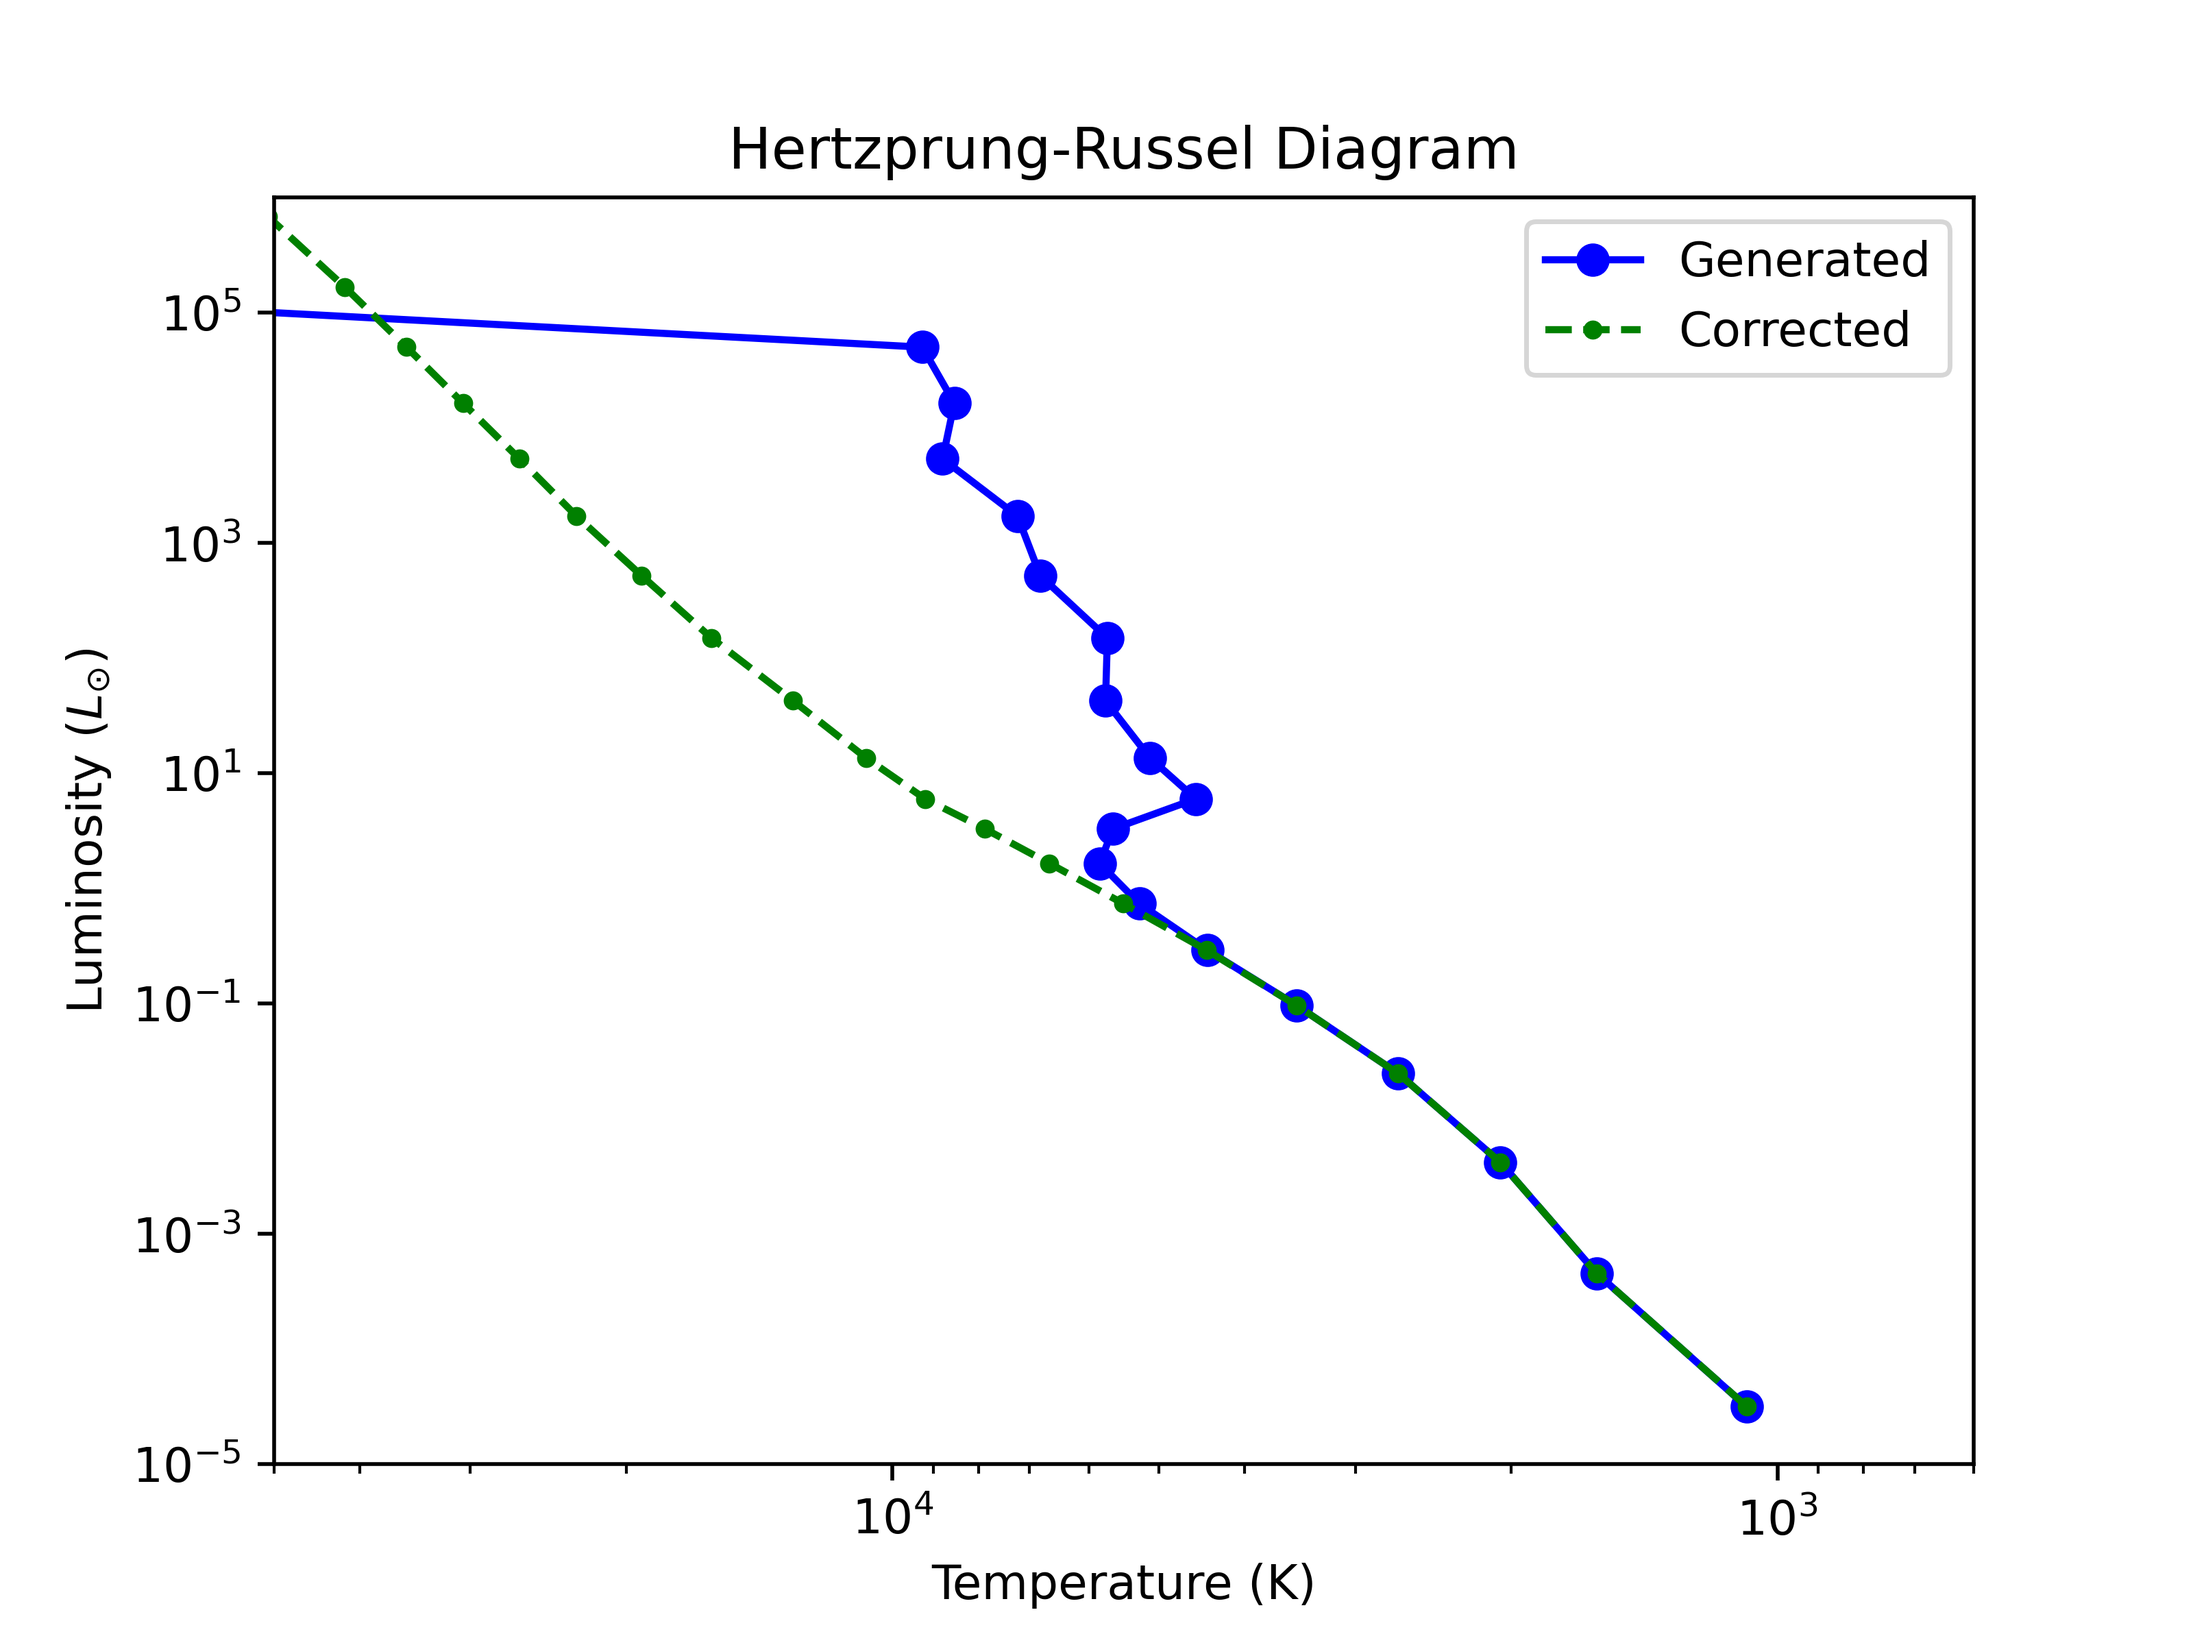
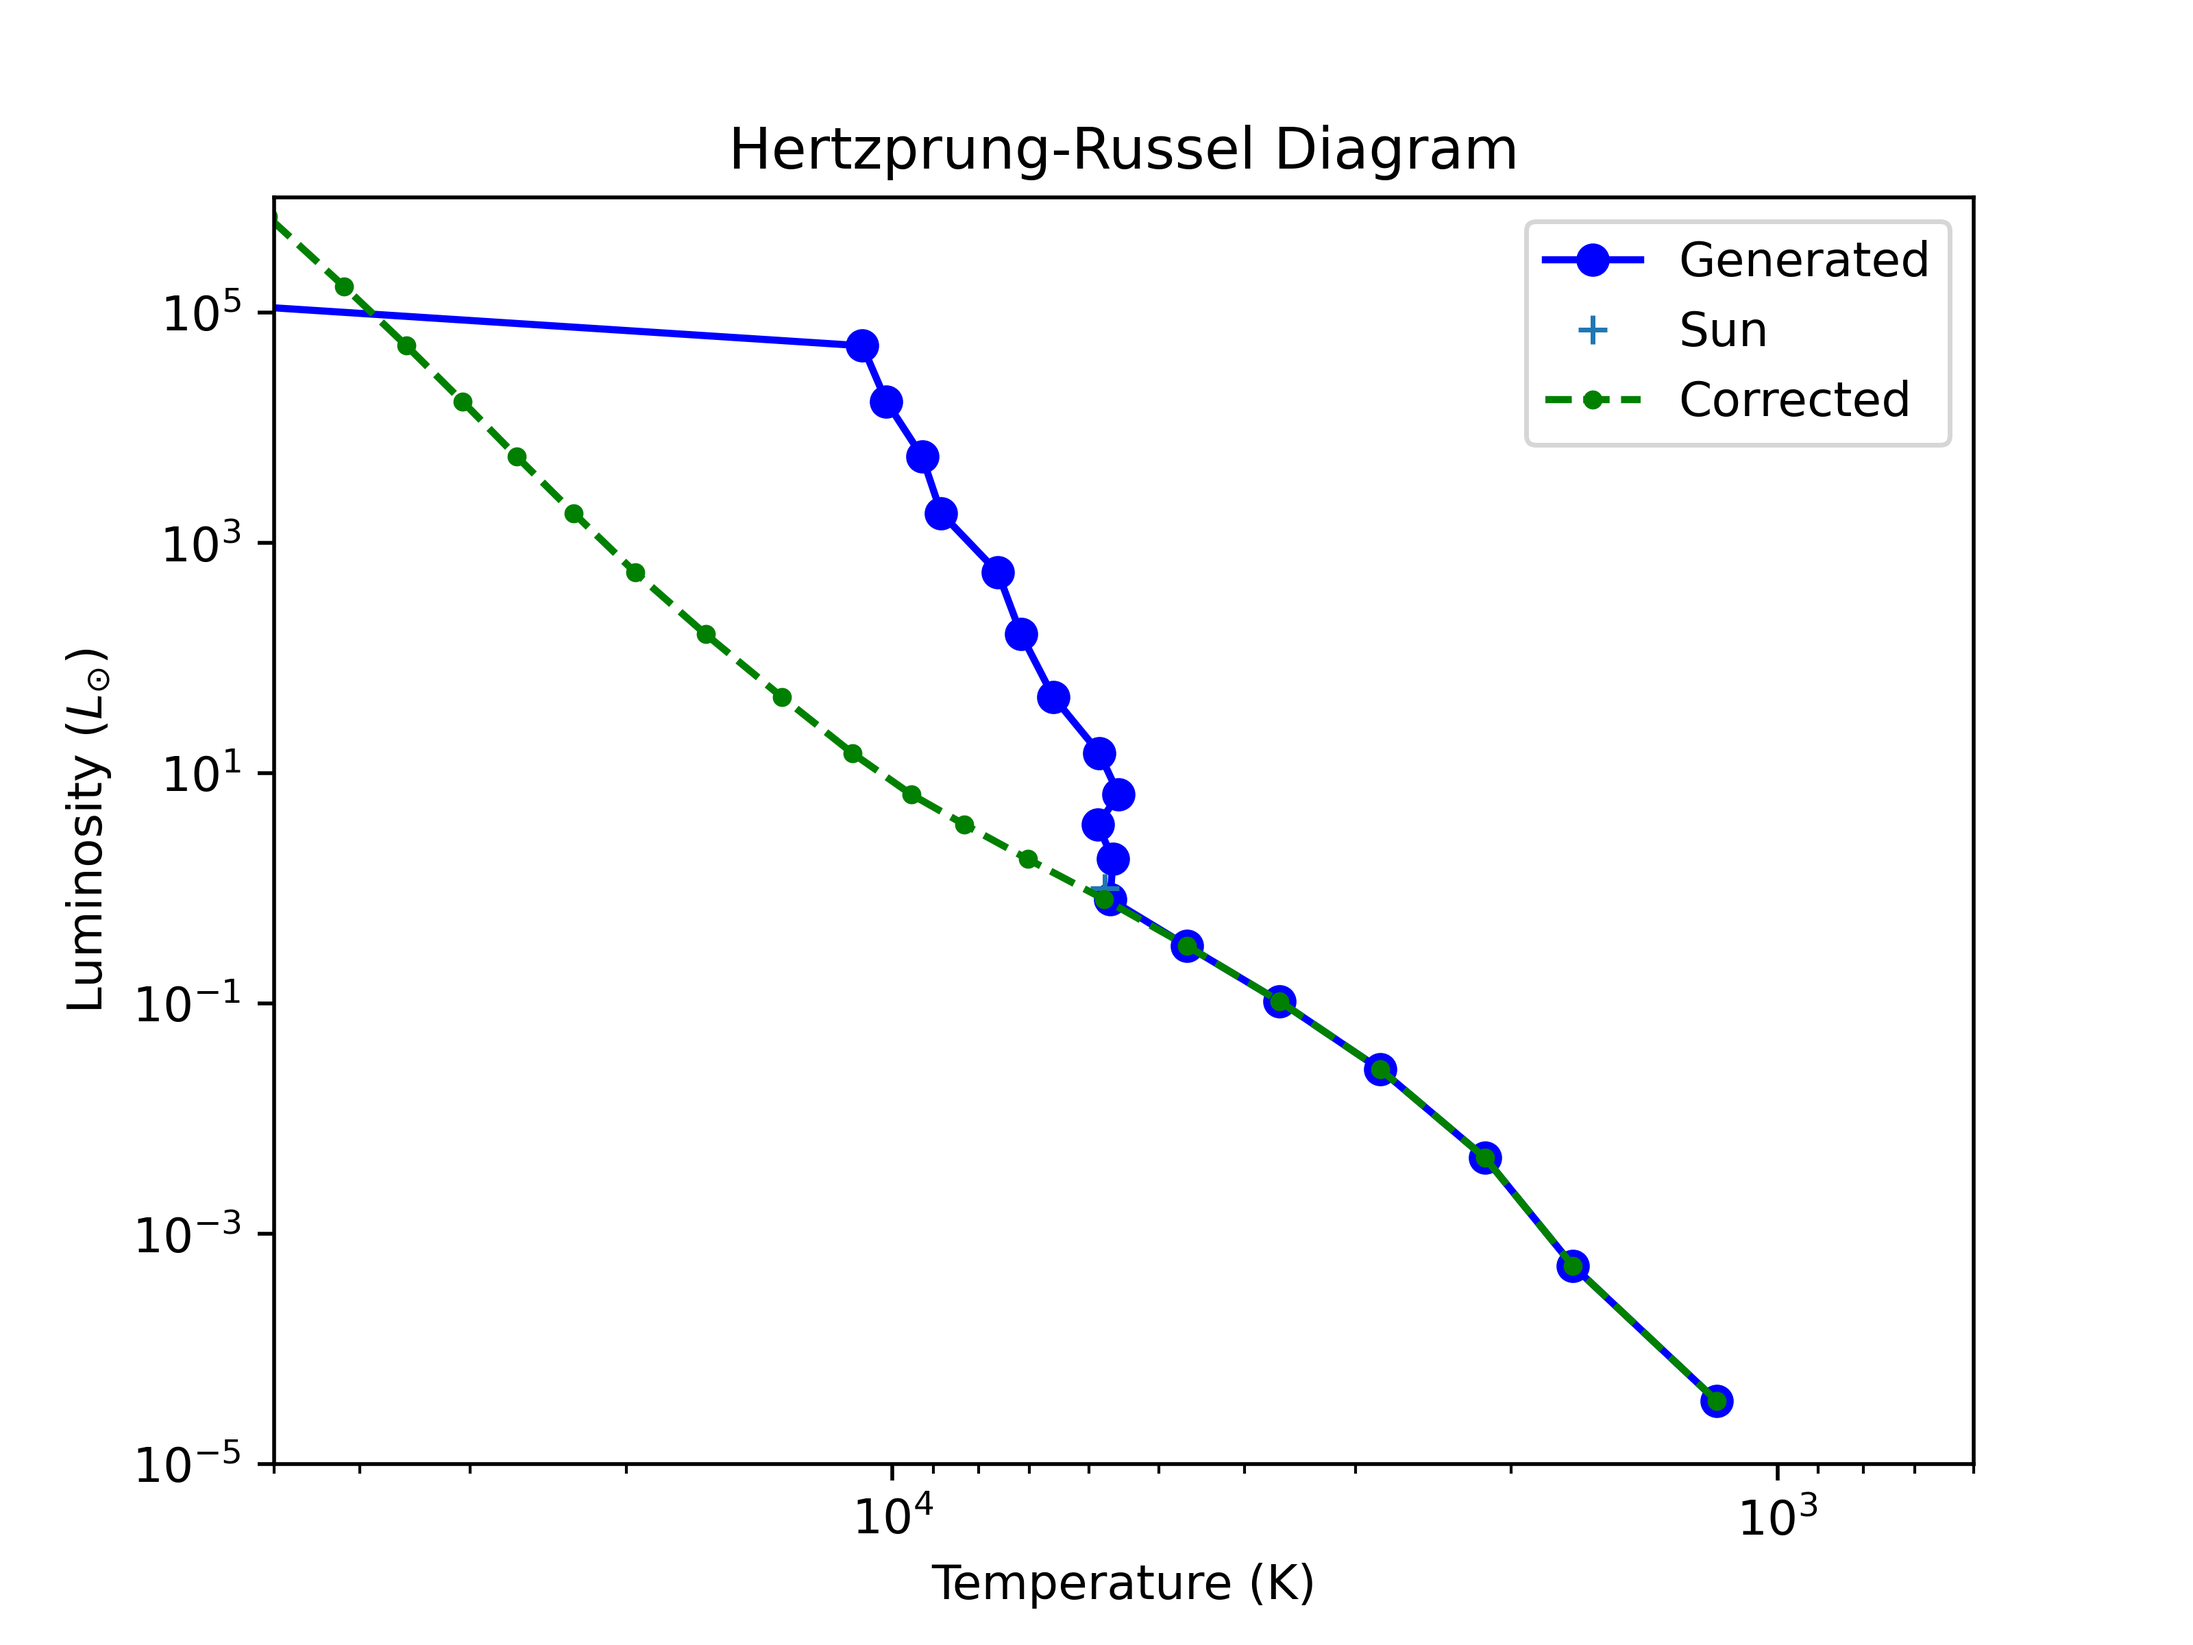
Adding everything to github

diff --git a/main.py b/main.py
@@ -51,12 +51,12 @@ def P(rho, T):
 # the big 5 =================================
 # theyre kinda hard to read, keep the doc side by side
 @jit
-def drhodr( rho, T, L, r, M, P):
-    return -(G*M*rho/r**2 + dPdT( rho, T) * dTdr(rho, T, L, r, M, P)) /dPdrho(rho,T)
+def drhodr( rho, T, L, r, M, P, kappas):
+    return -(G*M*rho/r**2 + dPdT( rho, T) * dTdr(rho, T, L, r, M, P, kappas)) /dPdrho(rho,T)
 
 @jit
-def dTdr(  rho, T, L, r, M, P):
-    return - np.nanmin([ np.abs(3 * kappa(rho,T) * rho * L/(16*np.pi*a*c*(T**3)*(r**2))), np.abs((1 - 1/gamma)*(T/P)*G*M*rho/r**2)], axis=0 )
+def dTdr(  rho, T, L, r, M, P, kappas):
+    return - np.nanmin([ np.abs(3 * kappas * rho * L/(16*np.pi*a*c*(T**3)*(r**2))), np.abs((1 - 1/gamma)*(T/P)*G*M*rho/r**2)], axis=0 )
 
 @jit
 def dMdr(r, rho):
@@ -187,8 +187,8 @@ def star_modified(r,y):
     L = y[3]
     tau = y[4]
 
-    rhodot = drhodr(rho, T, L, r, M, P(rho, T))
-    Tdot = dTdr(rho, T, L, r, M, P(rho, T))
+    rhodot = drhodr(rho, T, L, r, M, P(rho, T), kappa_modified(rho, T))
+    Tdot = dTdr(rho, T, L, r, M, P(rho, T), kappa_modified(rho, T))
     Mdot = dMdr(r, rho)
     Ldot = dLdr(rho, r, T)
     taudot = dtaudr(rho, kappa_modified(rho, T))
@@ -209,8 +209,8 @@ def star(r,y):
     L = y[3]
     tau = y[4]
 
-    rhodot = drhodr(rho, T, L, r, M, P(rho, T))
-    Tdot = dTdr(rho, T, L, r, M, P(rho, T))
+    rhodot = drhodr(rho, T, L, r, M, P(rho, T), kappa(rho, T))
+    Tdot = dTdr(rho, T, L, r, M, P(rho, T), kappa(rho, T))
     Mdot = dMdr(r, rho)
     Ldot = dLdr(rho, r, T)
     taudot = dtaudr(rho, kappa(rho, T))
@@ -233,7 +233,7 @@ def dtausmall(all, rs1, modified=False, ret=False):
     else:
         ks = kappa_modified(rhos1, Ts1)
 
-    drhodrs = drhodr(rhos1,Ts1, Ls1, rs1, Ms1, P(rhos1, Ts1))
+    drhodrs = drhodr(rhos1,Ts1, Ls1, rs1, Ms1, P(rhos1, Ts1), ks)
     dtau1 = ks * rhos1 * rhos1 / np.abs(drhodrs)
 
     if ret:
@@ -410,7 +410,7 @@ def trial_soln(rho_c_trial, T_c, r_f, system=star, optimize=True, final=False, m
         ks = kappa(rhos1[tauinf_i], Ts1[tauinf_i])
     else:
         ks = kappa_modified(rhos1[tauinf_i], Ts1[tauinf_i])
-    drhodrs = drhodr(rhos1[tauinf_i], Ts1[tauinf_i], Ls1[tauinf_i], rs1[tauinf_i], Ms1[tauinf_i], P(rhos1[tauinf_i], Ts1[tauinf_i]))
+    drhodrs = drhodr(rhos1[tauinf_i], Ts1[tauinf_i], Ls1[tauinf_i], rs1[tauinf_i], Ms1[tauinf_i], P(rhos1[tauinf_i], Ts1[tauinf_i]), ks)
     dtau1 =  ks * rhos1[tauinf_i] * rhos1[tauinf_i] / np.abs(drhodrs)
 
     print("1: R: {}  T: {}  tauerr: {} f: {}".format(rs1[surf_g1] / Rsun, Ts1[surf_g1], surf_err1, frac_error1))
@@ -509,16 +509,16 @@ def find_ics(rho_c_min, rho_c_max, Tc, rf, max_iters, system=star, modified=Fals
             elif ((np.min(np.abs(fs)) < 0.5) or (np.abs(fs[-1]) < 0.5) ) and n > 100:
                 print("f is smaller than threshold for 100 iters")
                 break
-            elif len(fs) > 5 and np.min(np.abs(fs[-1] - np.array(fs[-3:]))) < 1e-4 and np.abs(fs[-1])<1 and n>50:
+            elif len(fs) > 5 and np.min(np.abs(fs[-1] - np.array(fs[-5:-1]))) < 1e-4 and np.abs(fs[-1])<1 and n>50:
                 print("f is small and fs are similar")
                 break
-            elif len(rhos) > 5 and np.min(np.abs(rhos[-1] - np.array(rhos[-3:]))) < 1e-10 and np.min(np.abs(fs[-1] - np.array(fs[-3:]))) < 1e-10 and n>20:
+            elif len(rhos) > 5 and np.min(np.abs(rhos[-1] - np.array(rhos[-5:-1]))) < 1e-10 and np.min(np.abs(fs[-1] - np.array(fs[-5:-1]))) < 1e-10 and n>20:
                 print("Rho doesnt change, f changes little, f is small")
                 break
             elif n>200 and np.min(np.abs(fs)) < 1:
                 print("Over 200 and err <1")
                 break
-            elif n > 100:
+            elif n > 60:
                 break
 
             print("Curr min error: ", np.min(np.abs(fs)))
@@ -544,6 +544,23 @@ def plot_all(rs, rhos, Ts, Ms, Ls, taus, surf, f, n=0, modified=False):
         os.mkdir("{}".format(n))
     except: # folder already exists
         pass
+
+    epp = eps_pp(rhos, Ts) * 4 * np.pi * rs * rs * rhos
+    ecno = eps_cno(rhos, Ts)* 4 * np.pi * rs * rs * rhos
+    ep = epsilon(rhos, Ts)* 4 * np.pi * rs * rs * rhos
+    plt.plot(rs / rs[surf], ep, "b-", label="Total")
+    plt.plot(rs / rs[surf], ecno, "g--", label="CNO")
+    plt.plot(rs/rs[surf], epp, "r:", label="Proton-Proton")
+    plt.xlabel(r"$R/R_{surf}$")
+    plt.ylabel("Energy Production")
+    plt.title("A Plot of Energy Production Throughout the Star")
+    plt.grid()
+    plt.legend()
+    plt.xlim(0,1)
+
+    plt.savefig("{0}/energy_{0}.png".format(n), dpi=300)
+    plt.clf()
+    plt.close()
 
     # This is the fancy plot with a lot of lines
     plt.plot(rs/rs[surf], rhos/rhos[0], label=r"$\rho/\rho_c$")
@@ -668,7 +685,7 @@ def mainsequence(qq, modified=False, system=star):
     LLs=[]; MMs=[]; TTs=[]; RRs =[]; fs = []; corr_TTs=[]
     rho_cs = []
     start = dt.datetime.now()
-    for i,T_c in   enumerate(np.linspace(1.5e6, 35e6, 20)): # enumerate([8.23e6]): # brodericks star
+    for i,T_c in enumerate([1e6, 25e6]):  # enumerate(np.linspace(1.5e6, 35e6, 20)): # enumerate([8.23e6]): # brodericks star
         print("==================== Beginning the {}th Star, Tc: {} ====================".format(i, T_c))
         r_f = 20*Rsun # starter radius of integration, almost always gets increased automatically
 
@@ -732,12 +749,12 @@ def mainsequence(qq, modified=False, system=star):
         fig = plt.figure()
         ax = plt.gca()
         plt.plot(np.array(TTs), np.array(LLs) / Lsun, 'b-o', label="Generated")
-        plt.plot(5760, 1, "+", label="Sun")
         if not modified:
             plt.plot(np.array(corr_TTs), np.array(LLs)/Lsun, "g--.", label="Corrected")
         else:
             if not fail:
                plt.plot(np.array(TTs) + (loaded['corr_temps'] - loaded['og_temps'])[:len(TTs)], np.array(LLs)[:len(TTs)] / Lsun, "g--.", label="Corrected")
+        plt.plot(5760, 1, marker="+", color="orange", label="Sun")
         ax.set_yscale('log')
         ax.set_xscale('log')
         plt.xlim(6e2, 5e4)
@@ -757,8 +774,11 @@ def mainsequence(qq, modified=False, system=star):
 
     print("Overall Took: ", (end - start).seconds)
 
-    if not modified and qq == "Real":
-        np.savez("corrections.npz", og_temps=np.array(TTs), corr_temps=np.array(corr_TTs)  )
+    if not modified:
+        if qq == "Real":
+            np.savez("corrections.npz", og_temps=np.array(TTs), corr_temps=np.array(corr_TTs)  )
+        else:
+            np.savez("corrections_{}.npz".format(qq), og_temps=np.array(TTs), corr_temps=np.array(corr_TTs) )
 
 
     epochs = np.arange(0, len(fs), 1)
@@ -823,7 +843,7 @@ if __name__ == "__main__":
     # cProfile.run('trial_soln(300, 8.23e6, 1e10, system=star, optimize=False, modified=False)')
 
     # Unmodified Main Sequence
-    # mainsequence("Real", modified=False)
+    mainsequence("Real", modified=False)
 
     # Modifications:
     Ti = 2e6

diff --git a/README.md b/README.md
@@ -1,2 +1,3 @@
-# sample-data-repo
+# Phys 375 (Stars) Final Project: Full Star Simulation
 
+Generated figures can be found for two different stars in MainSeqReal\_x, where x is 0 or 1.
